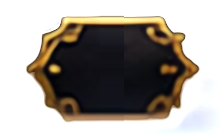
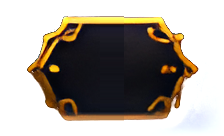
OOT D.E. 0.10.2: original art, sharper; title opening really stopped
- The menu art of the reference image is back (Link watching the castle, the
  logo, buttons and frames), re-enlarged with Real-ESRGAN x4plus
  (scripts/ootde_esrgan_np.py, numpy only) instead of EDSR: background in
  two passes reduced to 2880x1250, logo 1944x672. The vector scene and
  title stay only as a fallback for an older soh.otr.
- The title opening no longer runs behind the menu: Play_Main runs the menu
  (DefinitiveUI_TitleFrame) and skips Play_Update on the title screen after
  its first 10 frames, so no demo scene, actor or sound plays. The title
  music is started if the opening had not started it yet.
- Navigation no longer depends on the logo actor (gone in the demo scenes,
  which left the menu without input). Play_Destroy closes the menu when the
  game goes to file select.

Claude-Session: https://claude.ai/code/session_01SndjvHduwSVvie663ZJyqb

Changed region(s): [[0.0938, 0.0882, 0.9062, 0.9118]]

diff --git a/scripts/ootde_esrgan_np.py b/scripts/ootde_esrgan_np.py
@@ -1,0 +1,92 @@
+"""Real-ESRGAN x4plus (RRDBNet) inference in numpy, loading the .pth without torch."""
+import pickle, zipfile, sys
+import numpy as np
+
+class _Storage:
+    def __init__(self, key, dtype): self.key, self.dtype = key, dtype
+
+def load_pth(path):
+    zf = zipfile.ZipFile(path)
+    names = zf.namelist()
+    prefix = names[0].split('/')[0]
+    dmap = {'FloatStorage': np.float32, 'HalfStorage': np.float16}
+    class U(pickle.Unpickler):
+        def find_class(self, mod, name):
+            if mod == 'torch._utils' and name == '_rebuild_tensor_v2':
+                def rebuild(storage, offset, size, stride, *a):
+                    raw = np.frombuffer(zf.read(f'{prefix}/data/{storage.key}'), dtype=storage.dtype)
+                    if len(size) == 0:
+                        return raw[offset]
+                    item = raw.itemsize
+                    return np.lib.stride_tricks.as_strided(raw[offset:], shape=size,
+                                                           strides=[s * item for s in stride]).astype(np.float32)
+                return rebuild
+            if mod == 'torch' and name.endswith('Storage'):
+                return name
+            if mod == 'collections' and name == 'OrderedDict':
+                import collections; return collections.OrderedDict
+            return super().find_class(mod, name)
+        def persistent_load(self, pid):
+            # ('storage', storage_type, key, location, numel)
+            st = pid[1]
+            stname = st if isinstance(st, str) else getattr(st, '__name__', str(st))
+            return _Storage(pid[2], dmap.get(stname, np.float32))
+    return U(zf.open(f'{prefix}/data.pkl')).load()
+
+def conv(x, w, b):
+    """3x3 convolution, padding 1. x: C,H,W ; w: O,C,3,3."""
+    C, H, W = x.shape
+    xp = np.pad(x, ((0, 0), (1, 1), (1, 1)))
+    win = np.lib.stride_tricks.sliding_window_view(xp, (3, 3), axis=(1, 2))  # C,H,W,3,3
+    cols = np.ascontiguousarray(win.transpose(0, 3, 4, 1, 2)).reshape(C * 9, H * W)
+    out = w.reshape(w.shape[0], -1) @ cols
+    out += b[:, None]
+    return out.reshape(w.shape[0], H, W)
+
+
+def lrelu(x): return np.where(x > 0, x, 0.2 * x)
+
+def up2(x): return x.repeat(2, axis=1).repeat(2, axis=2)
+
+def run(P, x):
+    g = lambda n: (P[n + '.weight'], P[n + '.bias'])
+    fea = conv(x, *g('conv_first'))
+    body = fea
+    for i in range(23):
+        rin = body
+        for r in (1, 2, 3):
+            pre = f'body.{i}.rdb{r}.'
+            xs = [rin]
+            for c in range(1, 5):
+                xs.append(lrelu(conv(np.concatenate(xs, 0), *g(pre + f'conv{c}'))))
+            x5 = conv(np.concatenate(xs, 0), *g(pre + 'conv5'))
+            rin = x5 * 0.2 + rin
+        body = rin * 0.2 + body
+    fea = fea + conv(body, *g('conv_body'))
+    fea = lrelu(conv(up2(fea), *g('conv_up1')))
+    fea = lrelu(conv(up2(fea), *g('conv_up2')))
+    out = conv(lrelu(conv(fea, *g('conv_hr'))), *g('conv_last'))
+    return out
+
+def upscale(P, img, tile=128, pad=10):
+    """img: H,W,3 float 0..1 RGB -> 4H,4W,3"""
+    H, W, _ = img.shape
+    out = np.zeros((H * 4, W * 4, 3), np.float32)
+    x = img.transpose(2, 0, 1).astype(np.float32)
+    for y0 in range(0, H, tile):
+        for x0 in range(0, W, tile):
+            y1, x1 = min(y0 + tile, H), min(x0 + tile, W)
+            ya, xa = max(0, y0 - pad), max(0, x0 - pad)
+            yb, xb = min(H, y1 + pad), min(W, x1 + pad)
+            r = run(P, x[:, ya:yb, xa:xb])
+            out[y0 * 4:y1 * 4, x0 * 4:x1 * 4] = r[:, (y0 - ya) * 4:(y1 - ya) * 4, (x0 - xa) * 4:(x1 - xa) * 4].transpose(1, 2, 0)
+            print('tile', y0, x0, flush=True)
+    return np.clip(out, 0, 1)
+
+if __name__ == '__main__':
+    from PIL import Image
+    sd = load_pth(sys.argv[1])
+    P = sd.get('params_ema', sd.get('params', sd))
+    img = np.asarray(Image.open(sys.argv[2]).convert('RGB'), np.float32) / 255.0
+    out = upscale(P, img)
+    Image.fromarray((out * 255 + 0.5).astype(np.uint8)).save(sys.argv[3])

diff --git a/scripts/ootde_ui_art.py b/scripts/ootde_ui_art.py
@@ -2,20 +2,24 @@
 """OOT D.E.: cuts the art of Rafael's reference image (docs/interface-de/referencia.png) into the high resolution
 textures of the Definitive Edition interface (soh/assets/custom/ootde/ui/).
 
-Each piece is enlarged 4x with the EDSR super-resolution network (OpenCV dnn_superres), then given a transparent
-background where it needs one (the buttons and frames were drawn over a dark blue background, the logo over the
+Each piece is enlarged 4x with the Real-ESRGAN x4plus network (scripts/ootde_esrgan_np.py: numpy only, no torch;
+the background gets a second pass and is then reduced to 2880 px, so it stays sharp on 1440p screens), then given a
+transparent background where it needs one (the buttons and frames were drawn over a dark blue background, the logo over the
 leaves of the tree). The button labels are removed: the buttons are rebuilt from their two ends and a slice of their
 middle, and the game writes its own text on them.
 
-    pip install opencv-contrib-python-headless pillow numpy
-    git clone --depth 1 https://github.com/Saafke/EDSR_Tensorflow.git /tmp/edsr
-    python3 scripts/ootde_ui_art.py /tmp/edsr/models/EDSR_x4.pb
+    pip install opencv-python-headless pillow numpy
+    curl -LO https://github.com/xinntao/Real-ESRGAN/releases/download/v0.1.0/RealESRGAN_x4plus.pth
+    python3 scripts/ootde_ui_art.py RealESRGAN_x4plus.pth
     python3 scripts/otr_add_custom.py
 """
 import os
 import sys
 
 import cv2
+
+sys.path.insert(0, os.path.dirname(os.path.abspath(__file__)))
+import ootde_esrgan_np as esrgan  # noqa: E402
 import numpy as np
 from PIL import Image
 
@@ -32,10 +36,13 @@ def save(category, name, rgba):
     print("wrote", os.path.relpath(path, ROOT), rgba.shape[1], "x", rgba.shape[0])
 
 
-def upscale(sr, img, box):
+def upscale(sr, img, box, passes=1):
+    """Crop of the reference (BGR, as OpenCV reads it) enlarged 4x per pass; returns RGB 0..255 float."""
     x0, y0, x1, y1 = box
-    out = sr.upsample(np.ascontiguousarray(img[y0:y1, x0:x1]))
-    return cv2.cvtColor(out, cv2.COLOR_BGR2RGB).astype(np.float32)
+    rgb = cv2.cvtColor(np.ascontiguousarray(img[y0:y1, x0:x1]), cv2.COLOR_BGR2RGB).astype(np.float32) / 255.0
+    for _ in range(passes):
+        rgb = esrgan.upscale(sr, rgb)
+    return rgb * 255.0
 
 
 def resize(rgb, w, h):
@@ -105,21 +112,20 @@ def three_slice(rgba, cap_l, cap_r, mid_x, mid_w=24):
 def main():
     if len(sys.argv) < 2:
         sys.exit(__doc__)
-    sr = cv2.dnn_superres.DnnSuperResImpl_create()
-    sr.readModel(sys.argv[1])
-    sr.setModel("edsr", 4)
+    state = esrgan.load_pth(sys.argv[1])
+    sr = state.get("params_ema", state.get("params", state))
     ref = cv2.imread(REF)
     if ref is None:
         sys.exit(f"missing {REF}")
 
     # Background: Hyrule at dusk, the castle, Link with the Hylian Shield and Navi (top banner of the reference).
-    bg = upscale(sr, ref, (780, 0, 1190, 178))  # 1640 x 712
-    bg = resize(bg, 1920, 834)
+    bg = upscale(sr, ref, (780, 0, 1190, 178), passes=2)  # 6560 x 2848
+    bg = resize(bg, 2880, 1250)
     save("backgrounds", "gDETitleBg", np.dstack([bg, np.full(bg.shape[:2], 255)]).astype(np.uint8))
 
     # Logo with "DEFINITIVE EDITION" (top left of the reference).
     logo = upscale(sr, ref, (104, 0, 590, 168))
-    logo = resize(logo, 1215, 420)
+    # 1944 x 672: kept at the size the network gives (the menu draws it about 700 px wide, the splash about 1400).
     save("decor", "gDELogo", matte_logo(logo))
 
     # Buttons (normal, selected, pressed) and the frame of the "Elementos visuais" panel.

diff --git a/soh/soh/Enhancements/DefinitiveUI/DeTitleMenu.cpp b/soh/soh/Enhancements/DefinitiveUI/DeTitleMenu.cpp
@@ -89,11 +89,6 @@ static void LoadTextures() {
     auto gui = Ship::Context::GetInstance()->GetWindow()->GetGui();
     auto resources = Ship::Context::GetInstance()->GetResourceManager();
     for (int i = 0; i < TEX_COUNT; i++) {
-        if (i >= TEX_TITLE_BG && i <= TEX_FRAME) {
-            // Drawn with shapes now (see GetTexture in DeTheme.cpp): no need to keep them in memory.
-            sTextureAvailable[i] = false;
-            continue;
-        }
         // A soh.otr without the texture (an older one) must not crash: the shapes fall back to plain geometry.
         auto res = std::static_pointer_cast<Fast::Texture>(resources->LoadResource(kTexturePaths[i], true));
         sTextureAvailable[i] = res != nullptr;
@@ -717,7 +712,12 @@ static void DrawPage(float dt) {
     }
     ImDrawList* dl = ImGui::GetWindowDrawList();
     // Behind: the same Hyrule at dusk as the menu, darkened so the options read well.
-    HyruleScene(dl, origin, end, s, sPageTime + 30.0f, 1.0f);
+    ImTextureID bgTex = GetTexture(TEX_TITLE_BG);
+    if (bgTex != (ImTextureID)0) {
+        CoverImage(dl, bgTex, TextureSize(TEX_TITLE_BG), origin, end, 1.04f, ImVec2(0.6f, 0.5f), IM_COL32_WHITE);
+    } else {
+        HyruleScene(dl, origin, end, s, sPageTime + 30.0f, 1.0f);
+    }
     dl->AddRectFilled(origin, end, Fade(Col::Ink, 0.62f));
 
     // ---- Top: Voltar, the title and (Configurações) the groups of options.
@@ -1552,6 +1552,38 @@ extern "C" void DefinitiveUI_TitleMenuClose(void) {
         sDetached = true;
         sDetachedTime = 0.0f;
     }
+}
+
+// The first frames of the title screen run normally (half a second: the scene, its camera and its actors get ready,
+// under the opening image), then it stays still while the menu is up: no Link on Epona, no sounds of the opening.
+static constexpr u32 kTitleWarmupFrames = 10;
+
+extern "C" bool DefinitiveUI_TitleFrame(PlayState* play) {
+    if (play == nullptr || gSaveContext.gameMode != GAMEMODE_TITLE_SCREEN || !DefinitiveUI_TitleMenuEnabled()) {
+        return true;
+    }
+    if (DefinitiveUI_TitleMenuUpdate(play)) {
+        // What EnMag_GoToFileSelect does for "PRESS START".
+        if (play->transitionTrigger != TRANS_TRIGGER_START) {
+            Audio_SetCutsceneFlag(0);
+            gSaveContext.gameMode = GAMEMODE_FILE_SELECT;
+            play->transitionTrigger = TRANS_TRIGGER_START;
+            play->transitionType = TRANS_TYPE_FADE_BLACK;
+        }
+    }
+    if (sClosing || gSaveContext.gameMode != GAMEMODE_TITLE_SCREEN) {
+        return true; // on its way to file select: the scene runs the transition
+    }
+    if (play->state.frames <= kTitleWarmupFrames) {
+        return true;
+    }
+    // The title music, which the opening would have started a little later.
+    if (play->state.frames == kTitleWarmupFrames + 1) {
+        if (func_800FA0B4(SEQ_PLAYER_BGM_MAIN) != NA_BGM_TITLE) {
+            Audio_QueueSeqCmd(SEQ_PLAYER_BGM_MAIN << 24 | NA_BGM_TITLE);
+        }
+    }
+    return false;
 }
 
 extern "C" bool DefinitiveUI_TitleMenuHoldsTitle(void) {

diff --git a/soh/soh/Enhancements/DefinitiveUI/DeTitleMenuView.cpp b/soh/soh/Enhancements/DefinitiveUI/DeTitleMenuView.cpp
@@ -135,7 +135,20 @@ TitleMenuInput TitleMenuRenderer::Draw(ImDrawList* dl, ImVec2 origin, ImVec2 siz
 
     // ---- Background: Hyrule at dusk with the castle, Link and Navi. It comes out of the dark while drawing back,
     // then keeps breathing slowly closer and drifting sideways like a camera.
-    HyruleScene(dl, origin, end, s, time, alpha * sceneIn);
+    ImTextureID bgTex = GetTexture(TEX_TITLE_BG);
+    if (bgTex != (ImTextureID)0) {
+        const float zoom =
+            1.0f + 0.05f * (0.5f - 0.5f * cosf(time * 6.2831853f / 45.0f)) + 0.12f * (1.0f - sceneIn);
+        const ImVec2 focus(0.6f + 0.035f * sinf(time * 6.2831853f / 70.0f), 0.5f + 0.02f * sinf(time * 0.07f));
+        CoverImage(dl, bgTex, TextureSize(TEX_TITLE_BG), origin, end, zoom, focus,
+                   Fade(IM_COL32_WHITE, alpha * sceneIn));
+        // Sun rays from the glow of the sunset behind the castle.
+        SunRays(dl, ImVec2(origin.x + size.x * 0.70f, origin.y + size.y * 0.47f), size.x * 0.75f, time,
+                Fade(Col::Rgba(255, 226, 170), alpha * sceneIn * 0.16f));
+    } else {
+        // An older soh.otr without the picture: Hyrule at dusk drawn with shapes.
+        HyruleScene(dl, origin, end, s, time, alpha * sceneIn);
+    }
     // Fireflies over the landscape.
     mSceneParticles.UpdateDust(dt, ImVec2(colX1 + 120.0f * s, origin.y + size.y * 0.35f), end, s * 0.8f);
     mSceneParticles.Update(dt);
@@ -525,7 +538,13 @@ void TitleMenuRenderer::DrawLoading(ImDrawList* dl, ImVec2 origin, ImVec2 size, 
     Fonts& fonts = GetFonts();
     // Opaque: the game's own file select works underneath and is never seen.
     dl->AddRectFilled(origin, end, Fade(IM_COL32_BLACK, alpha));
-    HyruleScene(dl, origin, end, s, time, alpha);
+    ImTextureID bgTex = GetTexture(TEX_TITLE_BG);
+    if (bgTex != (ImTextureID)0) {
+        CoverImage(dl, bgTex, TextureSize(TEX_TITLE_BG), origin, end, 1.06f, ImVec2(0.6f, 0.5f),
+                   Fade(Col::Rgba(120, 120, 135), alpha));
+    } else {
+        HyruleScene(dl, origin, end, s, time, alpha);
+    }
     dl->AddRectFilled(origin, end, Fade(Col::Ink, alpha * 0.55f));
     const ImVec2 c(origin.x + size.x * 0.5f, origin.y + size.y * 0.46f);
     TriforceCrest(dl, c, 120.0f * s, alpha, time);

diff --git a/soh/src/code/z_play.c b/soh/src/code/z_play.c
@@ -15,6 +15,7 @@
 #include "soh/ResourceManagerHelpers.h"
 #include "soh/SaveManager.h"
 #include "soh/framebuffer_effects.h"
+#include "soh/Enhancements/DefinitiveUI/DefinitiveUI.h"
 
 #include <libultraship/libultraship.h>
 
@@ -202,6 +203,11 @@ Gfx* Play_SetFog(PlayState* play, Gfx* gfx) {
 void Play_Destroy(GameState* thisx) {
     PlayState* play = (PlayState*)thisx;
     Player* player = GET_PLAYER(play);
+
+    // OOT D.E.: leaving the title screen for file select closes its menu (also when the logo actor is not there).
+    if (gSaveContext.gameMode == GAMEMODE_FILE_SELECT) {
+        DefinitiveUI_TitleMenuClose();
+    }
 
     GameInteractor_ExecuteOnPlayDestroy();
 
@@ -1719,7 +1725,11 @@ void Play_Main(GameState* thisx) {
         HREG(94) = 10;
     }
 
-    if ((HREG(80) != 10) || (HREG(81) != 0)) {
+    // OOT D.E.: on the title screen the Definitive Edition menu runs here, every frame, whatever the opening does;
+    // it returns false while the opening must stay still (no Link riding or running, no sounds of it).
+    bool deRunScene = DefinitiveUI_TitleFrame(play);
+
+    if (deRunScene && ((HREG(80) != 10) || (HREG(81) != 0))) {
         Play_Update(play);
         // Hold B to fast-forward cutscenes (soh/Enhancements/HoldBFastForward.cpp): extra logic frames, one draw.
         s32 extraFrames = HoldBFastForward_GetExtraFrames(play);

diff --git a/soh/soh/Enhancements/DefinitiveUI/DeTheme.cpp b/soh/soh/Enhancements/DefinitiveUI/DeTheme.cpp
@@ -38,20 +38,6 @@ void SetTextureLookup(TextureLookup lookup) {
 }
 
 ImTextureID GetTexture(Texture tex) {
-    switch (tex) {
-        case TEX_TITLE_BG:
-        case TEX_LOGO:
-        case TEX_BUTTON_NORMAL:
-        case TEX_BUTTON_SELECTED:
-        case TEX_BUTTON_PRESSED:
-        case TEX_FRAME:
-            // The art cut from the reference image was enlarged about 5x and looked blurry on a phone screen. Those
-            // pieces are now drawn as shapes at the screen's own resolution (HyruleScene, TitleLogo and the plain
-            // geometry of the buttons and frames).
-            return (ImTextureID)0;
-        default:
-            break;
-    }
     return sTextureLookup != nullptr ? sTextureLookup(tex) : (ImTextureID)0;
 }
 
@@ -66,9 +52,9 @@ ImVec2 TextureSize(Texture tex) {
         case TEX_NAVI_WING:
             return ImVec2(96, 64);
         case TEX_TITLE_BG:
-            return ImVec2(1920, 834);
+            return ImVec2(2880, 1250);
         case TEX_LOGO:
-            return ImVec2(1215, 420);
+            return ImVec2(1944, 672);
         case TEX_BUTTON_SELECTED:
             return ImVec2(240, 136);
         case TEX_BUTTON_NORMAL:

diff --git a/soh/src/overlays/actors/ovl_En_Mag/z_en_mag.c b/soh/src/overlays/actors/ovl_En_Mag/z_en_mag.c
@@ -219,11 +219,8 @@ void EnMag_Update(Actor* thisx, PlayState* play) {
         } else if (this->globalState >= MAG_STATE_DISPLAY) {
             if (sDelayTimer == 0) {
                 if (DefinitiveUI_TitleMenuEnabled()) {
-                    // OOT D.E.: the Definitive Edition main menu takes the place of "PRESS START" and decides
-                    // when to go to file select.
-                    if (this->globalState == MAG_STATE_DISPLAY && DefinitiveUI_TitleMenuUpdate(play)) {
-                        EnMag_GoToFileSelect(this, play);
-                    }
+                    // OOT D.E.: the Definitive Edition main menu takes the place of "PRESS START"; it runs from
+                    // Play_Main (DefinitiveUI_TitleFrame) and sends the game to file select itself.
                 } else if (CHECK_BTN_ALL(play->state.input[0].press.button, BTN_START) ||
                            CHECK_BTN_ALL(play->state.input[0].press.button, BTN_A) ||
                            CHECK_BTN_ALL(play->state.input[0].press.button, BTN_B)) {

diff --git a/soh/soh/Enhancements/DefinitiveUI/DefinitiveUI.h b/soh/soh/Enhancements/DefinitiveUI/DefinitiveUI.h
@@ -28,6 +28,10 @@ void DefinitiveUI_TitleMenuClose(void);
 // The menu is on screen (the touch controls are hidden meanwhile).
 bool DefinitiveUI_TitleMenuVisible(void);
 
+// Called by Play_Main every frame, before the scene updates. On the title screen with the menu on, runs the menu (and
+// sends the game to file select when it is time). Returns false when the scene must not update this frame (the
+// opening stays still behind the menu).
+bool DefinitiveUI_TitleFrame(struct PlayState* play);
 // The menu holds the title screen: its opening does not go on to the next scenes (z_demo.c).
 bool DefinitiveUI_TitleMenuHoldsTitle(void);
 

diff --git a/CHANGELOG.md b/CHANGELOG.md
@@ -12,6 +12,17 @@ Como as versões são organizadas está em [docs/VERSOES.md](docs/VERSOES.md).
 
 ## Base Ship of Harkinian 9.0.2 (branch `main`)
 
+## [0.10.2] — Arte original nítida e menu que não trava
+
+- **A arte de antes voltou**, com o Link sentado olhando o castelo, o logo, os botões e as molduras, agora em
+  qualidade maior. As peças foram ampliadas de novo a partir da imagem de referência com a rede Real-ESRGAN, mais
+  nítida que a usada antes. O fundo passou por duas ampliações e tem 2880 px de largura; o logo, 1944 px.
+- **A abertura do jogo não roda mais atrás do menu.** Na 0.10.1 a cena ainda trocava (Link de Épona, Link correndo)
+  e o som dela tocava. Agora a cena fica parada desde o primeiro meio segundo. Continua tocando só a música da tela
+  de título.
+- **Navegação destravada de verdade.** O menu era comandado pelo logo da abertura, que some nas cenas de
+  demonstração, e aí parava de responder. Agora o próprio menu comanda a tela de título, a cada quadro.
+
 ## [0.10.1] — Menu Definitive refeito
 
 - **Nada do jogo por trás do menu.** A abertura original (Link de Épona e as outras cenas) não roda mais atrás do
@@ -22,9 +33,8 @@ Como as versões são organizadas está em [docs/VERSOES.md](docs/VERSOES.md).
 - **Navegação destravada.** O menu sumia e parava de responder sempre que a abertura do jogo trocava de cena; como a
   abertura agora fica parada, isso não acontece mais.
 - **Menu nítido.** O fundo, o logo, os botões e as molduras eram recortes pequenos da imagem de referência ampliados
-  cerca de 5 vezes. Agora são desenhados na resolução da tela: um Hyrule ao entardecer (castelo, Montanha da Morte,
-  campo), o título com a Triforce, e botões e molduras em vetor. Com o menu do Ship aberto na tela de título o
-  fundo dele também fica opaco.
+  cerca de 5 vezes, e foram trocados por desenhos em vetor (desfeito na 0.10.2, que volta com a arte original
+  ampliada de novo). Com o menu do Ship aberto na tela de título o fundo dele também fica opaco.
 
 ## [0.10.0] — Definitive Expansion
 
